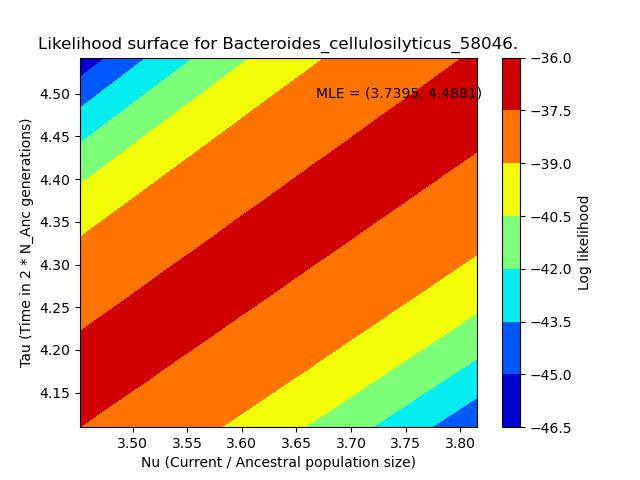
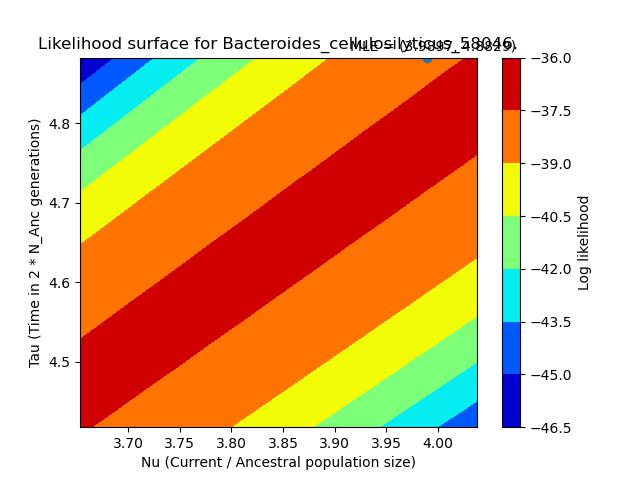
B. c ell

diff --git a/Scripts/plot_likelihood.py b/Scripts/plot_likelihood.py
@@ -527,6 +527,7 @@ class PlotLikelihood():
                              xy=(best_params[0], best_params[1]), # these are the coordinates to position the label
                              textcoords="offset points", # how to position the text
                              ha='center') # horizontal alignment can be left, right or center
+                plt.scatter(best_params[0], best_params[1])
                 plt.savefig(file)
         logger.info('Maximum likelihood computed to be: {0}.'.format(max_likelihood))
         logger.info('Maximum likelihood found at ({0}).'.format(best_params))
